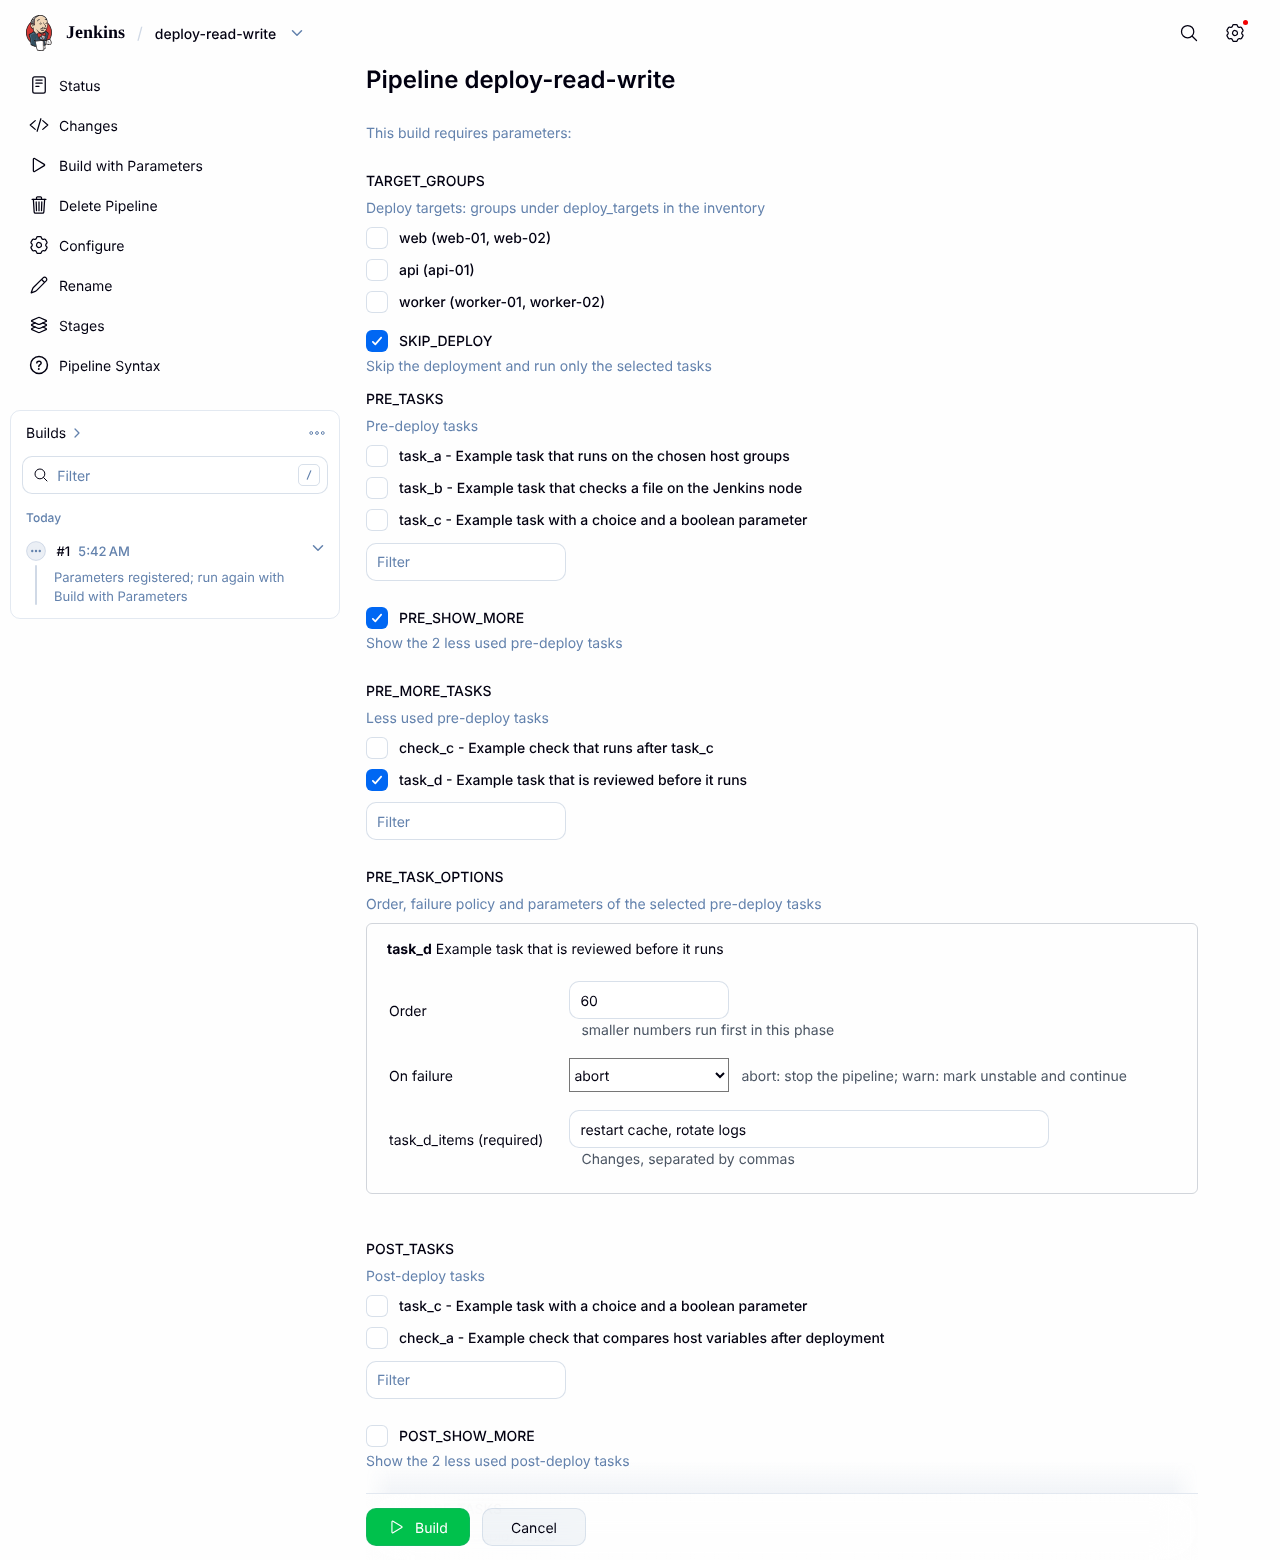
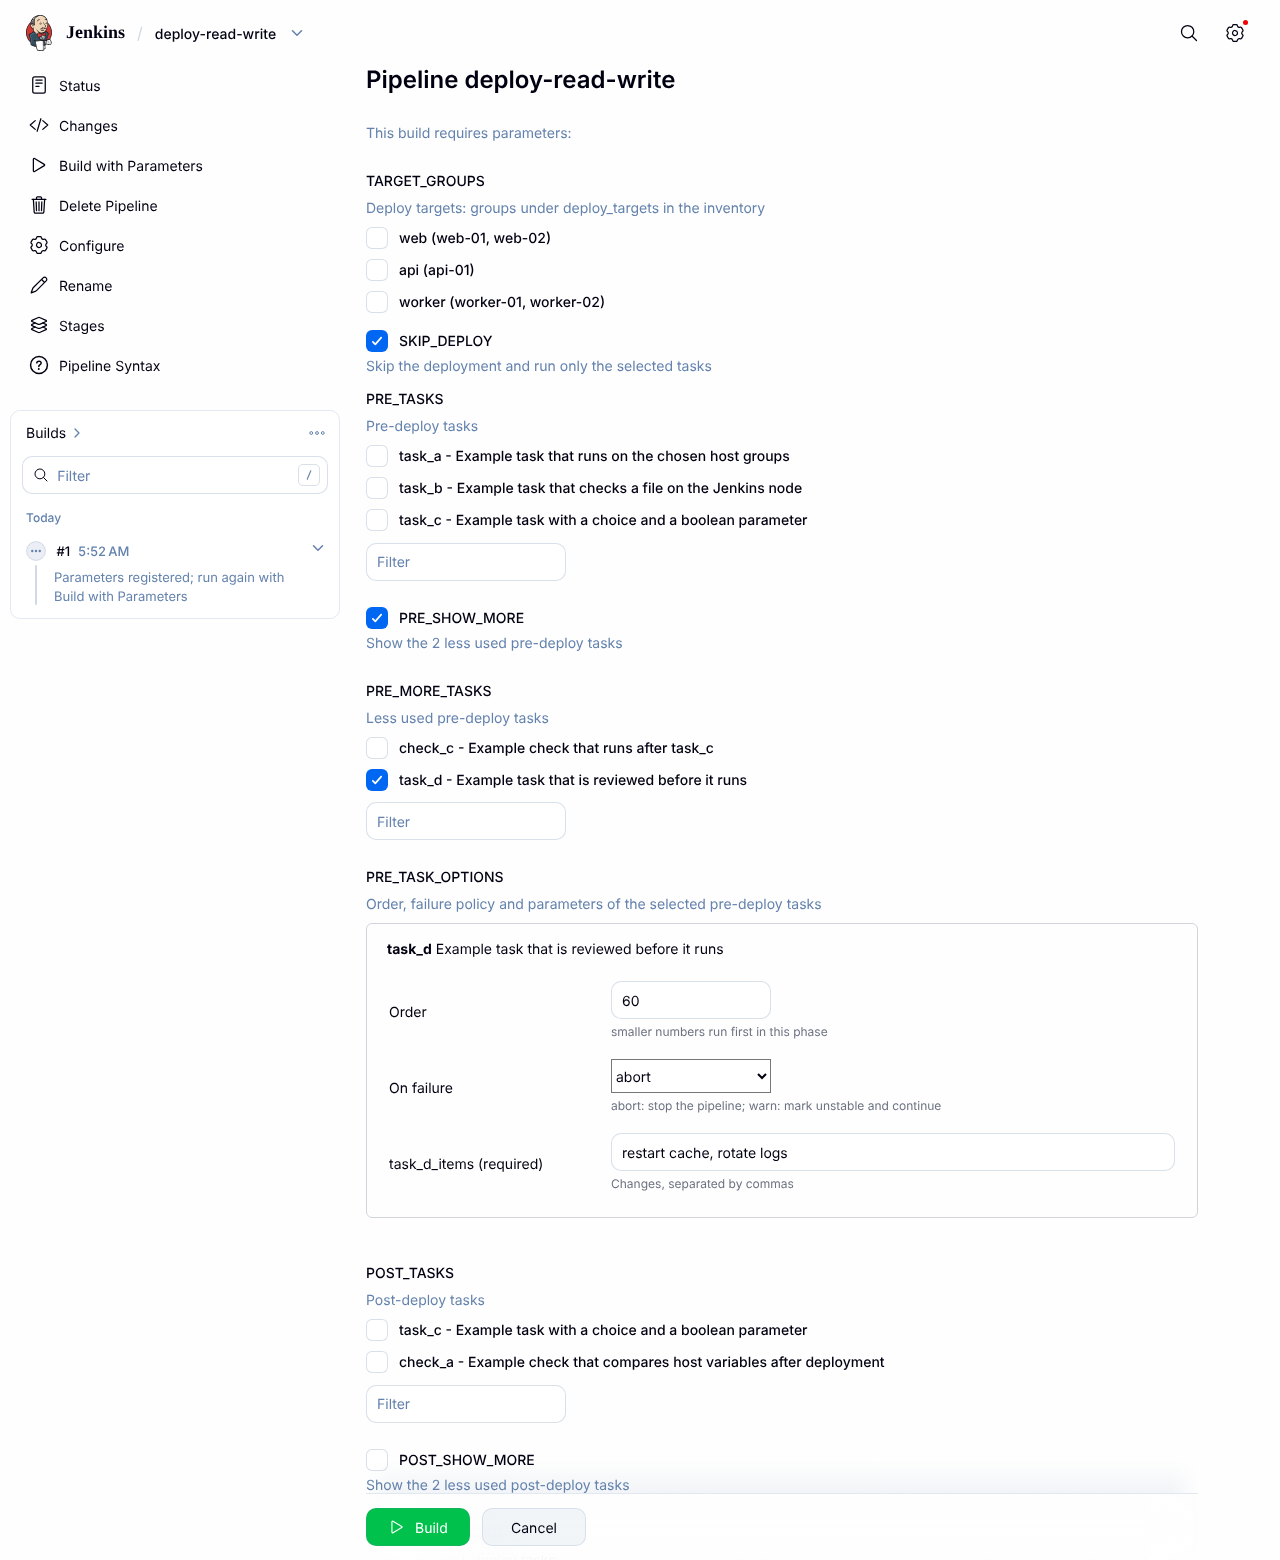
Double the text inputs and put each hint on its own smaller line
Text inputs grow to 960px or the width of the box, whichever is less
(fixed table layout so max-width applies); the explanation under each
input is a smaller grey line. All values stay in FormStyle.STYLES.

Claude-Session: https://claude.ai/code/session_01HQoGZjYvnbh8G5vUGUSDBt

diff --git a/jenkins-ansible-deploy/tests/test_parameter_page.py b/jenkins-ansible-deploy/tests/test_parameter_page.py
@@ -106,7 +106,7 @@ def test_every_form_style_survives_the_sanitizer(parameter_page):
     field(page, 'task_a.order').wait_for()
 
     styles = page.locator('[style]').evaluate_all('elements => elements.map(element => element.getAttribute("style"))')
-    assert set(FORM_STYLES) == {'group', 'title', 'label', 'value', 'text', 'number', 'select', 'hint'}
+    assert set(FORM_STYLES) == {'group', 'title', 'table', 'label', 'value', 'text', 'number', 'select', 'hint'}
     assert {name: style for name, style in FORM_STYLES.items() if style not in styles} == {}
 
 

diff --git a/jenkins-ansible-deploy/attachments/parameter-page.md b/jenkins-ansible-deploy/attachments/parameter-page.md
@@ -77,34 +77,34 @@ OUT: <input type="text" name="value" placeholder="required" class="jenkins-input
 ```html
 <div style="{group}">
   <div style="{title}"><b>task_c</b> Example task with a choice and a boolean parameter</div>
-  <table><tbody>
+  <table style="{table}"><tbody>
     <tr><td style="{label}">Order</td><td style="{value}">
       <input type="hidden" name="value" value="@@task_c.order">
       <input type="number" name="value" value="30" placeholder="order" class="jenkins-input" style="{number}">
-      <span style="{hint}">smaller numbers run first in this phase</span></td></tr>
+      <div style="{hint}">smaller numbers run first in this phase</div></td></tr>
     <tr><td style="{label}">On failure</td><td style="{value}">
       <input type="hidden" name="value" value="@@task_c.policy">
       <select name="value" style="{select}"><option value="abort" selected="selected">abort</option><option value="warn">warn</option></select>
-      <span style="{hint}">abort: stop the pipeline; warn: mark unstable and continue</span></td></tr>
+      <div style="{hint}">abort: stop the pipeline; warn: mark unstable and continue</div></td></tr>
     <tr><td style="{label}">task_c_mode</td><td style="{value}">
       <input type="hidden" name="value" value="@@task_c.task_c_mode">
       <select name="value" style="{select}"><option value="plan" selected="selected">plan</option><option value="apply">apply</option></select>
-      <span style="{hint}">Run mode</span></td></tr>
+      <div style="{hint}">Run mode</div></td></tr>
     <tr><td style="{label}">task_c_verbose</td><td style="{value}">
       <input type="hidden" name="value" value="@@task_c.task_c_verbose">
       <select name="value" style="{select}"><option value="true">true</option><option value="false" selected="selected">false</option></select>
-      <span style="{hint}">Whether to print details</span></td></tr>
+      <div style="{hint}">Whether to print details</div></td></tr>
     <tr><td style="{label}">task_c_label</td><td style="{value}">
       <input type="hidden" name="value" value="@@task_c.task_c_label">
       <input type="text" name="value" value="" placeholder="task_c_label" class="jenkins-input" style="{text}">
-      <span style="{hint}">Extra label, may be empty</span></td></tr>
+      <div style="{hint}">Extra label, may be empty</div></td></tr>
   </tbody></table>
 </div>
 ```
 
 (Line breaks and indentation added for readability; `{group}` and the like stand for the entries of `FormStyle.STYLES`.)
 
-**Styles are defined in one place**: `platform/jenkins/src/deploy/FormStyle.groovy`, a map from element role (`group`, `title`, `label`, `value`, `text`, `number`, `select`, `hint`) to an inline style. The column widths and spacing of the form are changed there and nowhere else. Only inline styles work: the sanitizer removes `<style>` blocks, removes `class` from everything except `input`, `textarea`, `select` and `option`, and drops CSS properties outside its allowed set (such as `position`, `display` and `url(...)`); a `div` or `span` left with no attribute is removed with its tag. `test_every_form_style_survives_the_sanitizer` in `test_parameter_page.py` fails when the sanitizer drops any style in `FormStyle.STYLES`. Styling the rest of the page (the checkbox lists, descriptions, buttons) would need a site-wide theme that an administrator installs, so the template does not do it.
+**Styles are defined in one place**: `platform/jenkins/src/deploy/FormStyle.groovy`, a map from element role (`group`, `title`, `table`, `label`, `value`, `text`, `number`, `select`, `hint`) to an inline style. The column widths and spacing of the form are changed there and nowhere else. Only inline styles work: the sanitizer removes `<style>` blocks, removes `class` from everything except `input`, `textarea`, `select` and `option`, and drops CSS properties outside its allowed set (such as `position`, `display` and `url(...)`); a `div` or `span` left with no attribute is removed with its tag. `test_every_form_style_survives_the_sanitizer` in `test_parameter_page.py` fails when the sanitizer drops any style in `FormStyle.STYLES`. Styling the rest of the page (the checkbox lists, descriptions, buttons) would need a site-wide theme that an administrator installs, so the template does not do it.
 
 The engine decides the control from the parameter type (`ActiveChoicesForm.input`, a `switch` on `ParameterType`), and the script only generates HTML from the result: `choices` -> drop-down; `bool` -> a `true` / `false` drop-down (so that each marker is always followed by exactly one value); `int` -> `type="number"`; anything else -> text box. The field keys in the markers are also generated by the engine (`FormField`). The prefilled values come from the task directory's `defaults/main.yml`. For a required parameter (such as `task_a_message`), the name cell reads `task_a_message (required)`, and the accessible name of the input box is also `task_a_message (required)` (`test_integer_parameter_uses_number_input_and_required_parameter_is_marked_in_text` in `test_parameter_page.py`).
 
